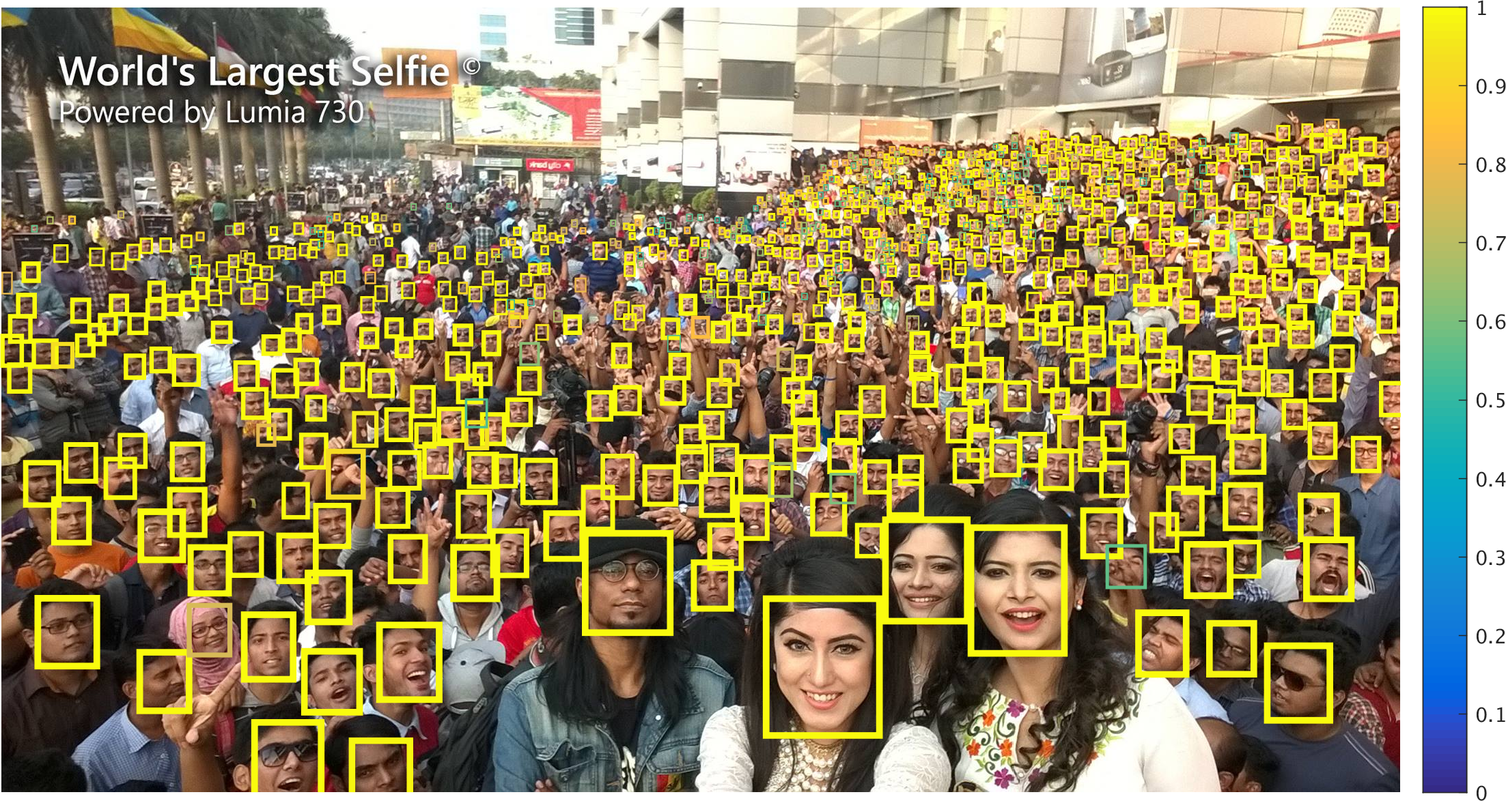
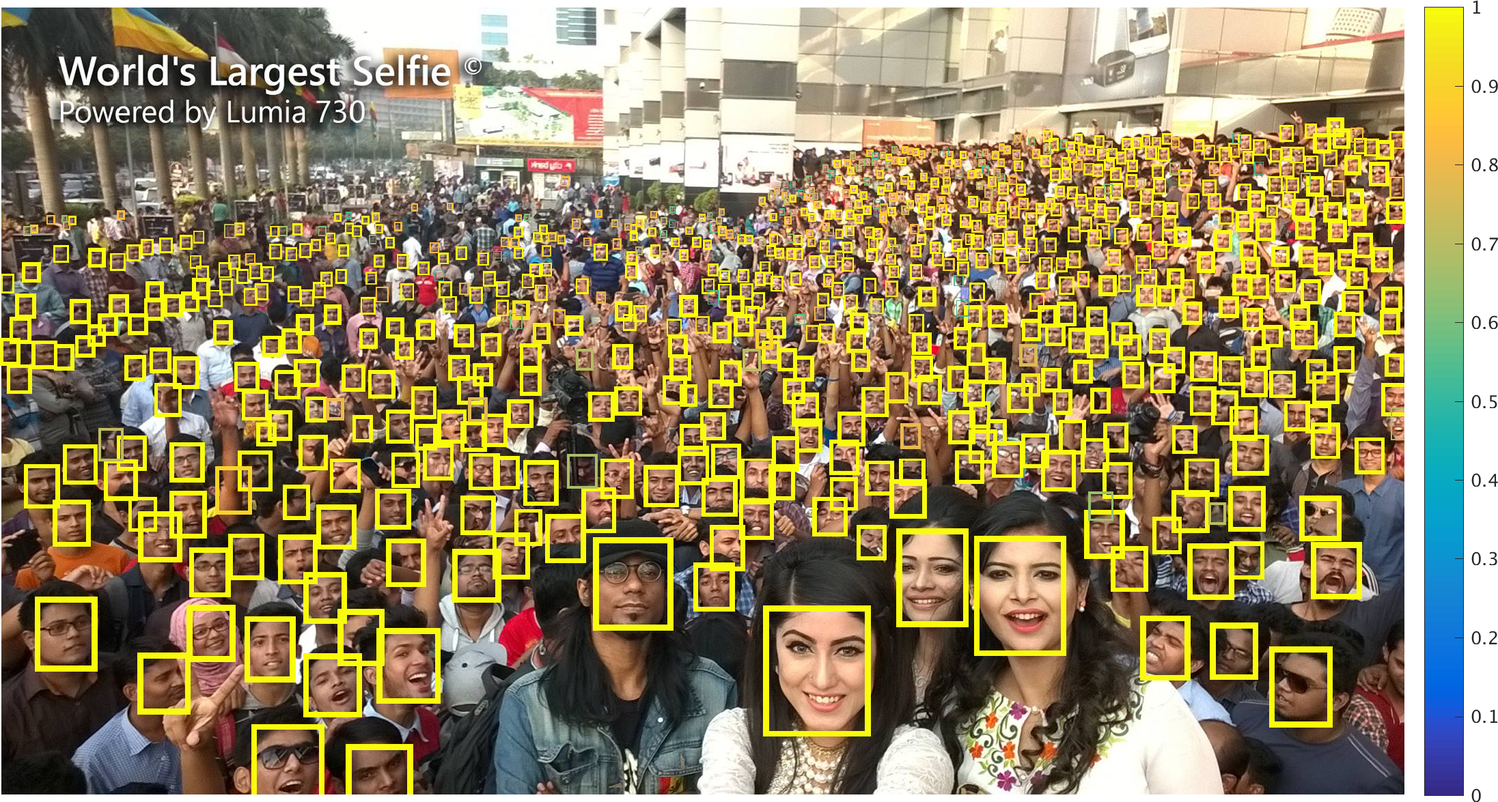
set mode to test in the demo

diff --git a/tiny_face_detector.m b/tiny_face_detector.m
@@ -22,16 +22,17 @@ function bboxes = tiny_face_detector(image_path, output_path, prob_thresh, nms_t
 if nargin < 1 || isempty(image_path)
   image_path = 'data/demo/selfie.jpg';
 end
-if nargin < 2 || isempty(output_path)
+% if nargin < 2 || isempty(output_path)
+if nargin < 2 
   output_path = './selfie.png';
 end
-if nargin < 3 || isempty(prob_thresh)
+if nargin < 3 
   prob_thresh = 0.5;
 end
-if nargin < 4 || isempty(nms_thresh)
+if nargin < 4 
   nms_thresh = 0.1;
 end
-if nargin < 5 || isempty(gpu_id)
+if nargin < 5 
   gpu_id = 0;  % 0 means no use of GPU (matconvnet starts with 1) 
 end
 
@@ -59,6 +60,7 @@ end
 fprintf('Loading pretrained detector model...\n');
 net = load(model_path);
 net = dagnn.DagNN.loadobj(net.net);
+net.mode = 'test';
 if gpu_id > 0 % for matconvnet it starts with 1 
   gpuDevice(gpu_id);
   net.move('gpu');
@@ -173,7 +175,7 @@ bboxes(:,[1 3]) = max(1, min(raw_w, bboxes(:,[1 3])));
 %
 t2 = toc(t1);
 
-% visualize with grace 
+% visualize detection on a reasonable resolution
 vis_img = raw_img;
 vis_bbox = bboxes;
 if max(raw_h, raw_w) > MAX_DISP_DIM

diff --git a/scripts/hr_res101.m b/scripts/hr_res101.m
@@ -7,7 +7,7 @@ end
 %% general settings 
 overWrite = false;
 modelType = 'resnet-101-simple';
-pretrainModelPath = 'models/imagenet-resnet-101-dag.mat';
+pretrainModelPath = './trained_models/imagenet-resnet-101-dag.mat';
 inputSize = [500, 500];
 trainFn = '@cnn_train_dag_hardmine';
 batchGetterFn = '@cnn_get_batch_hardmine';
@@ -18,7 +18,7 @@ numSubBatches = 1;
 batchSize = 12;
 numEpochs = 50;
 tag = '';
-gpus = [1];
+gpus = [1 2 3 4];
 if numel(gpus) > 1
   batchSize = batchSize * numel(gpus);
 end
